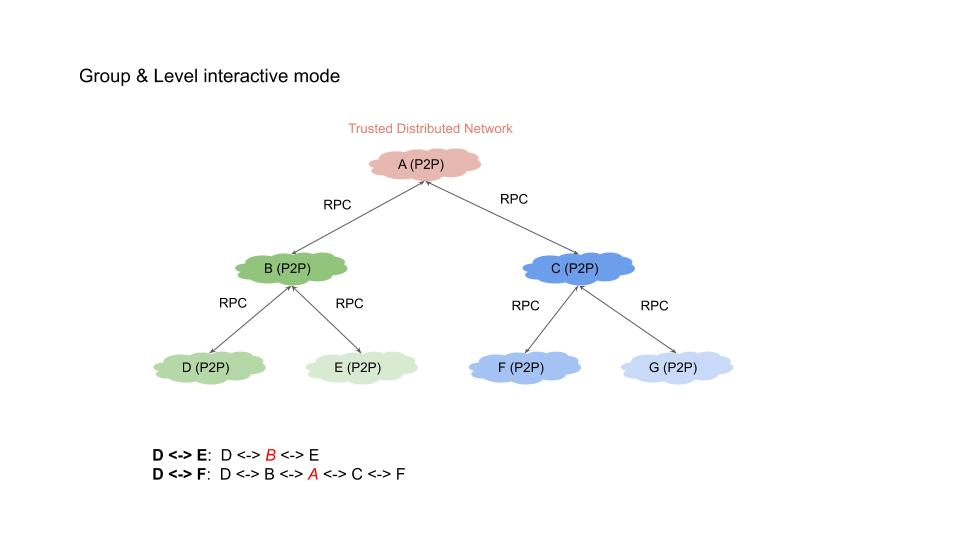
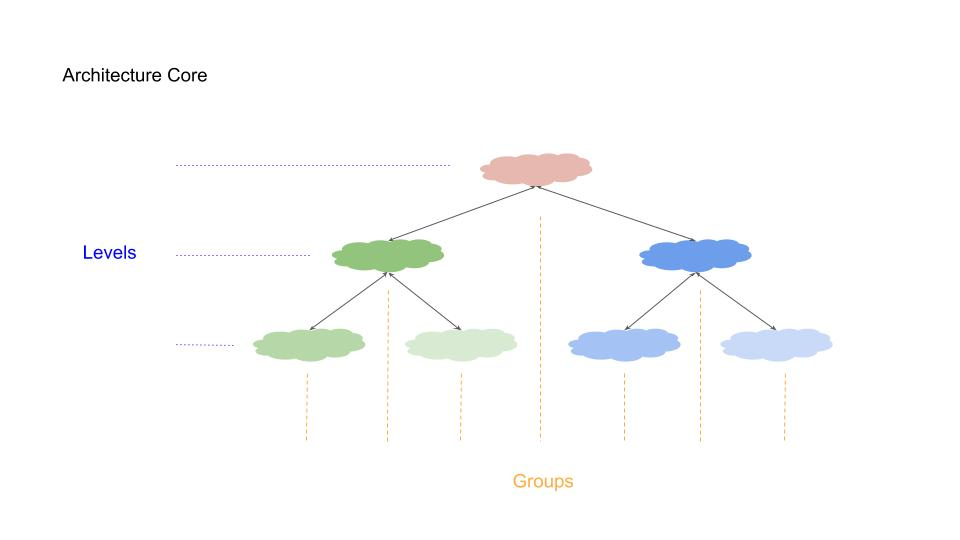
add TDN_1 jpg

diff --git a/architecture.md b/architecture.md
@@ -2,6 +2,6 @@
 
 ![TDN 1 image](./assets/TDN_1.jpg)
 
-![TDN 1 image](./assets/TDN_2.jpg)
+![TDN 2 image](./assets/TDN_2.jpg)
 
-![TDN 1 image](./assets/TDN_3.jpg)
+![TDN 3 image](./assets/TDN_3.jpg)